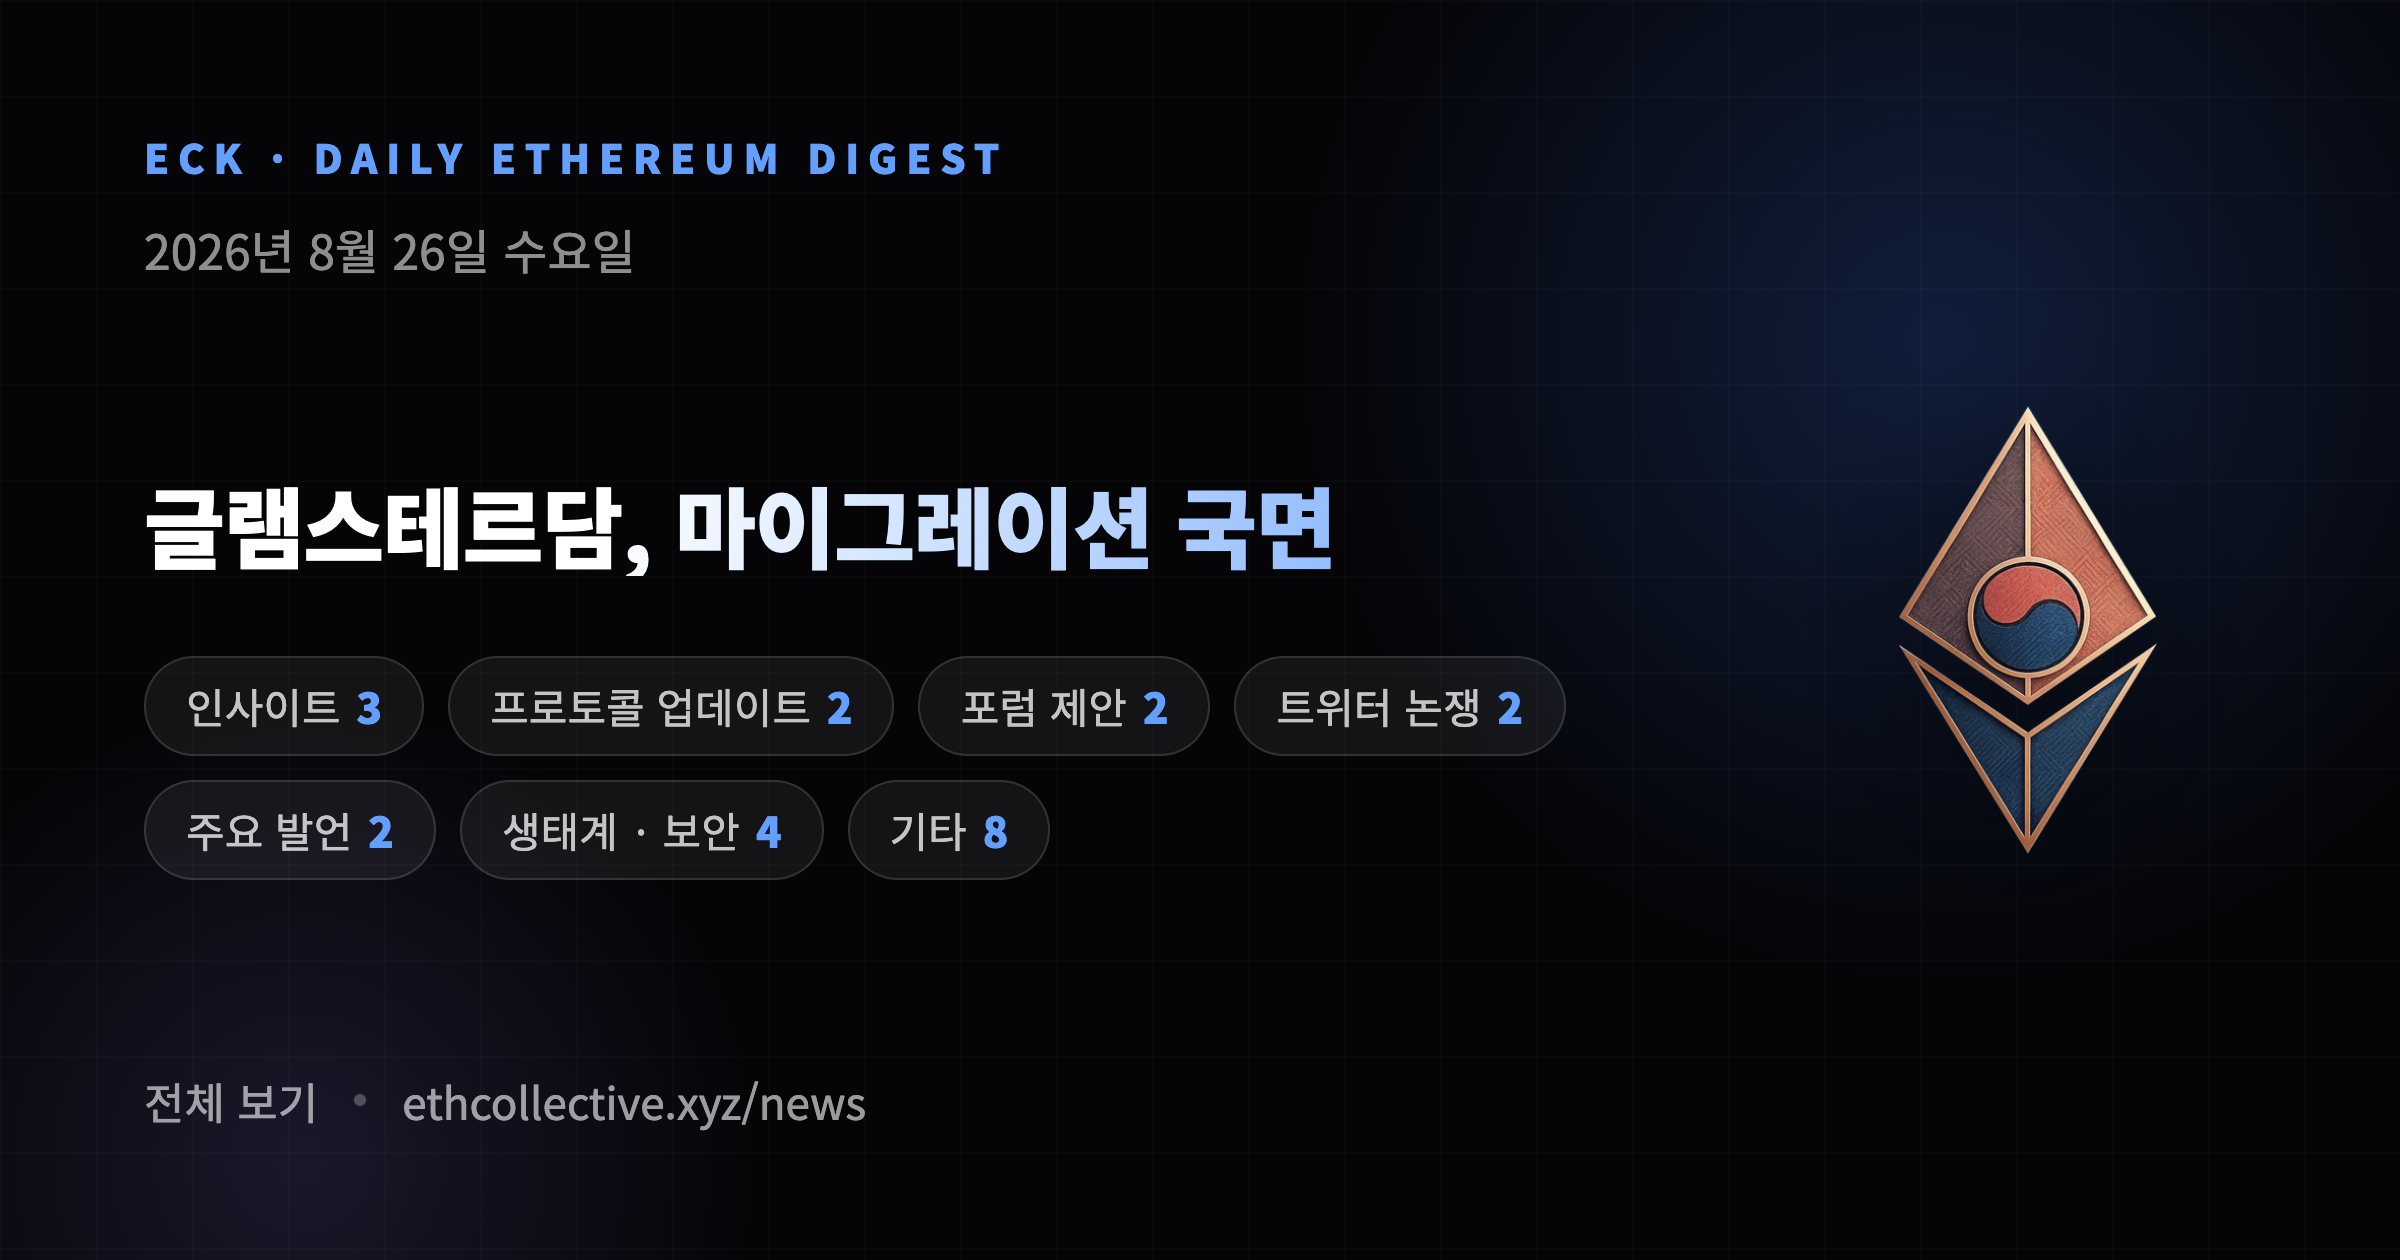
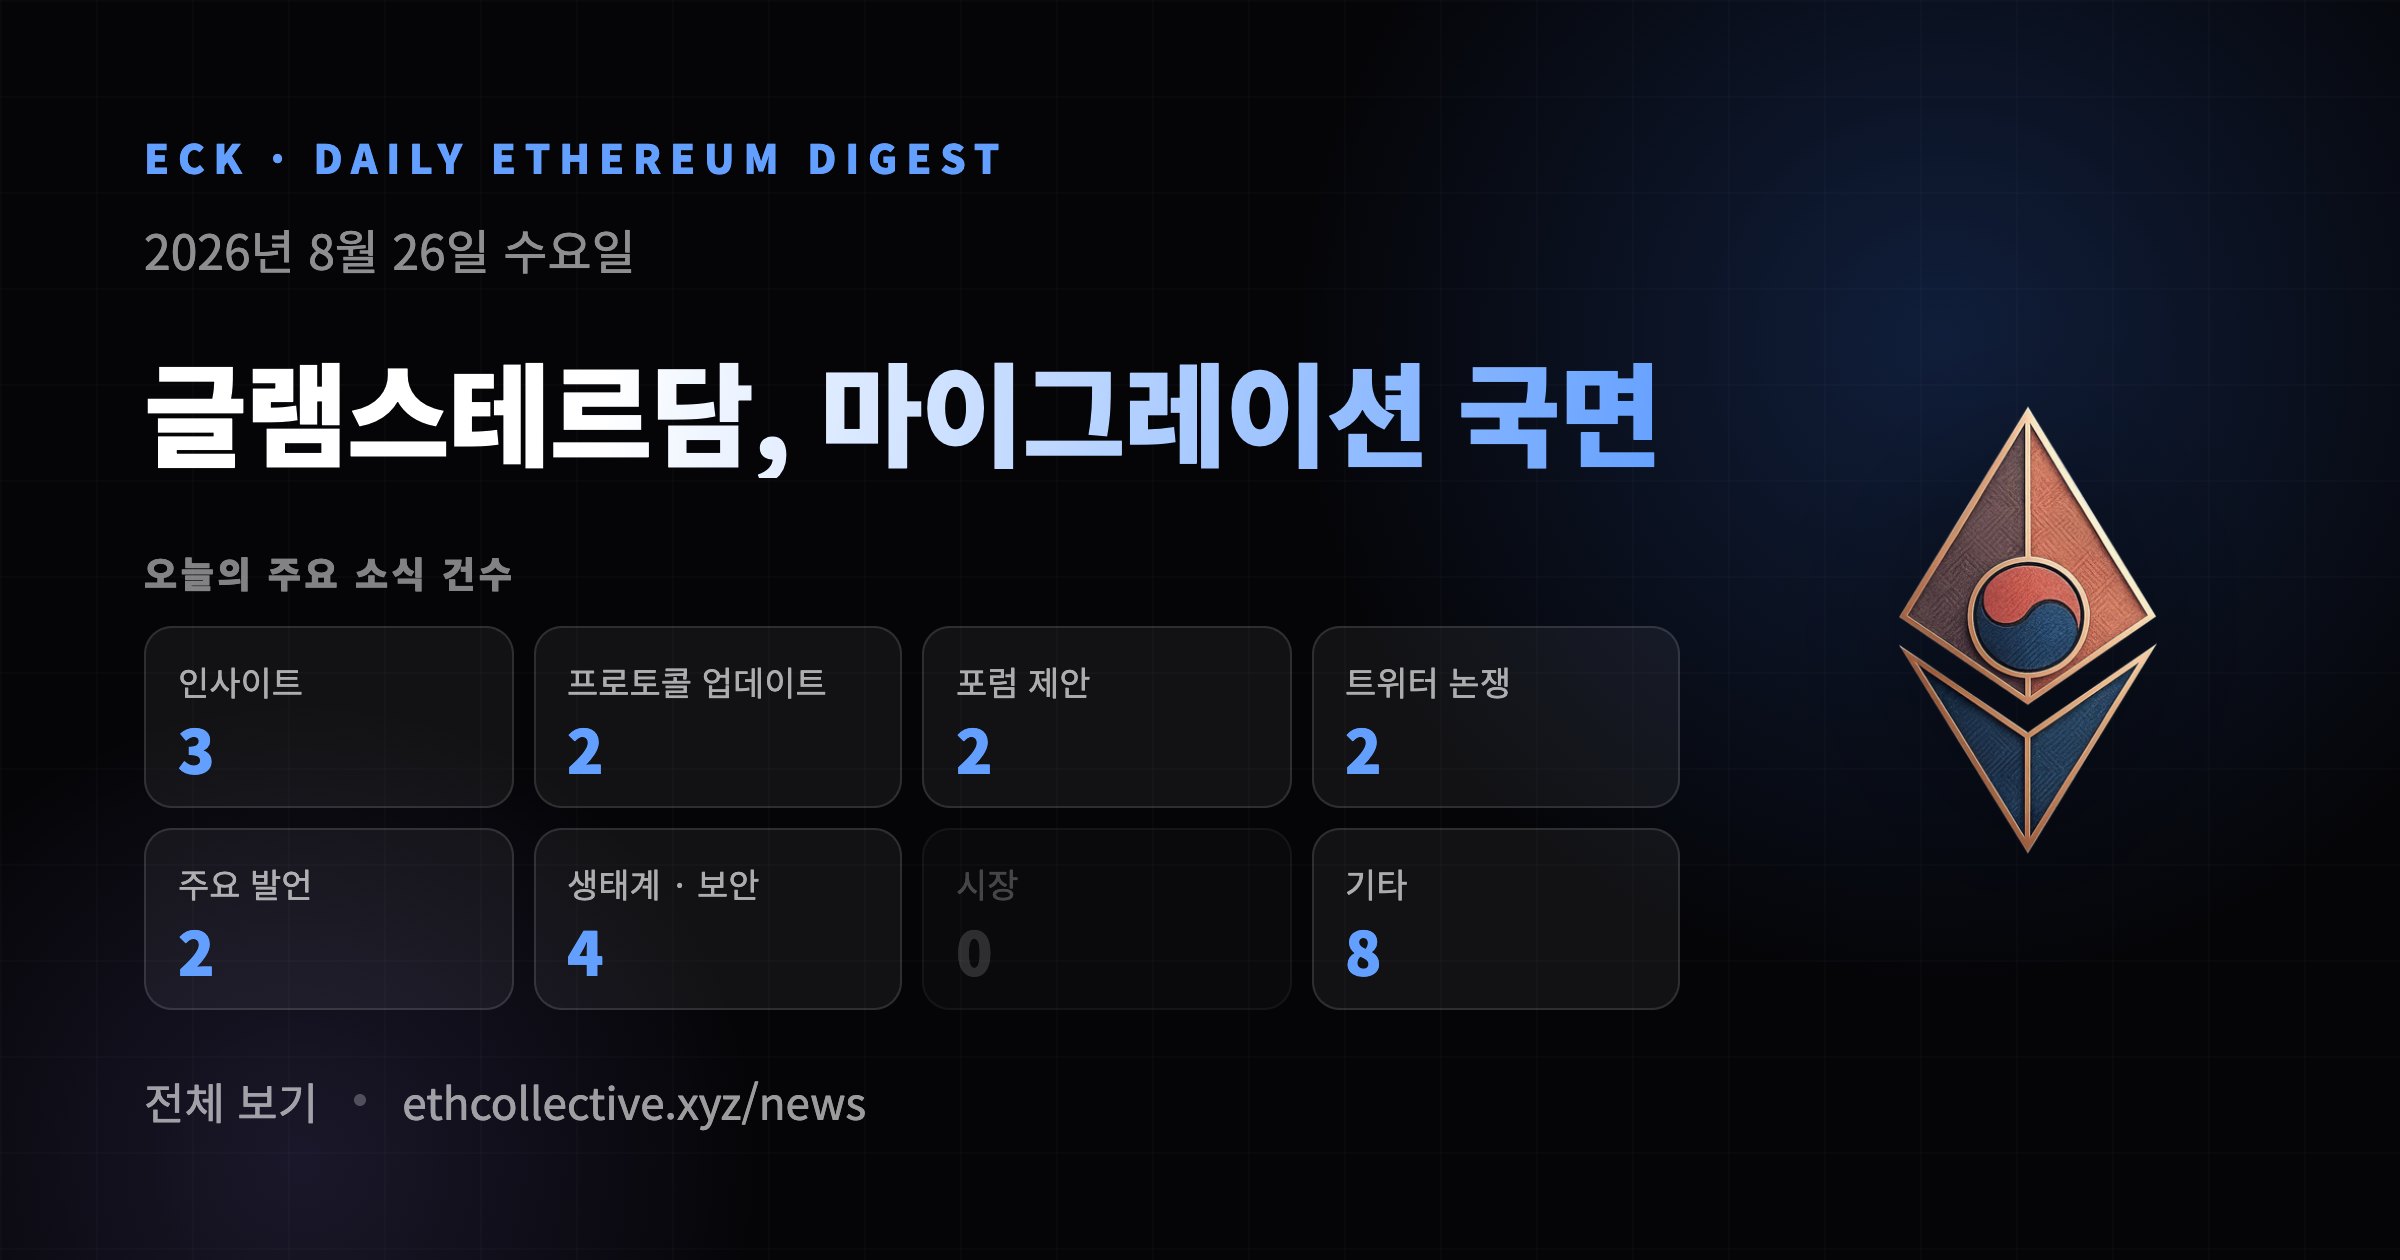
feat: 커버 8칸 소식 건수 그리드 + 타이틀 실측 최대화, 캡션 예산 보정
- '오늘의 주요 소식 건수' 소제목 + 고정 8칸 그리드 (없는 분류는 0으로 유지 표시)
- 타이틀 폰트를 렌더 시 실측으로 텍스트 존 최대 크기까지 확대 (로고 침범 없음)
- 캡션 1024자 예산을 '보이는 텍스트' 기준으로 보정 — 논쟁·발언 구분이 잘리던 문제 해결

diff --git a/scripts/render-digest-cover.ts b/scripts/render-digest-cover.ts
@@ -48,22 +48,24 @@ function esc(s: string): string {
   return s.replace(/&/g, '&amp;').replace(/</g, '&lt;').replace(/>/g, '&gt;');
 }
 
-/** 커버 칩 라벨 — 섹션 이름 압축 */
-function chipLabel(heading: string): string {
-  return heading
-    .replace(/^오늘의 /, '')
-    .replace(/ · 담론$/, '')
-    .replace(/ 브리핑$/, '')
-    .replace(/^그 밖의 소식$/, '기타');
-}
+/** 커버 8칸 그리드 — 분류 체계 전체를 고정 슬롯으로 (없는 날은 0으로 표시) */
+const CATEGORY_SLOTS: Array<{ label: string; match: string }> = [
+  { label: '인사이트', match: '인사이트' },
+  { label: '프로토콜 업데이트', match: '프로토콜' },
+  { label: '포럼 제안', match: '포럼' },
+  { label: '트위터 논쟁', match: '논쟁' },
+  { label: '주요 발언', match: '발언' },
+  { label: '생태계 · 보안', match: '생태계' },
+  { label: '시장', match: '시장' },
+  { label: '기타', match: '그 밖' },
+];
 
 function coverHtml(digest: Digest, logoDataUri: string): string {
   const headline = digest.shortTitle ?? digest.title;
-  // 한 줄 유지: 글자 수에 맞춰 폰트 크기 자동 조정 (텍스트 존 약 720px)
-  const fontSize = Math.max(38, Math.min(64, Math.floor(760 / headline.length)));
-  const chips = digest.sections
-    .map((s) => `<span class="chip">${esc(chipLabel(s.heading))}<b>${s.items.length}</b></span>`)
-    .join('');
+  const cells = CATEGORY_SLOTS.map(({ label, match }) => {
+    const count = digest.sections.find((s) => s.heading.includes(match))?.items.length ?? 0;
+    return `<div class="cell${count === 0 ? ' empty' : ''}"><span class="cat">${esc(label)}</span><span class="num">${count}</span></div>`;
+  }).join('');
   const dateLabel = new Date(`${digest.date}T00:00:00`).toLocaleDateString('ko-KR', {
     year: 'numeric',
     month: 'long',
@@ -92,16 +94,20 @@ function coverHtml(digest: Digest, logoDataUri: string): string {
     .wrap { position: relative; height: 100%; padding: 64px 360px 64px 72px; display: flex; flex-direction: column; }
     .eyebrow { font-size: 20px; font-weight: 700; letter-spacing: .22em; color: #629FFF; }
     .date { margin-top: 14px; font-size: 24px; color: rgba(255,255,255,.55); font-weight: 400; }
-    .mid { margin-top: auto; margin-bottom: auto; display: flex; flex-direction: column; gap: 40px; }
-    .title { white-space: nowrap;
-      font-size: ${fontSize}px; font-weight: 800; line-height: 1.2; letter-spacing: -.015em;
+    .mid { margin-top: auto; margin-bottom: auto; display: flex; flex-direction: column; gap: 34px; }
+    /* 폰트 크기는 렌더 시 실측으로 텍스트 존에 맞춰 최대화 (로고 존 침범 없음) */
+    .title { white-space: nowrap; font-size: 78px;
+      font-weight: 800; line-height: 1.2; letter-spacing: -.015em;
       background: linear-gradient(100deg, #fff 30%, #629FFF 100%);
       -webkit-background-clip: text; -webkit-text-fill-color: transparent; }
-    .chips { display: flex; flex-wrap: wrap; gap: 12px; }
-    .chip { font-size: 21px; padding: 9px 20px; border-radius: 999px;
-      background: rgba(255,255,255,.06); border: 1px solid rgba(255,255,255,.13);
-      color: rgba(255,255,255,.75); }
-    .chip b { color: #629FFF; margin-left: 8px; font-weight: 700; }
+    .panel-label { font-size: 18px; font-weight: 700; letter-spacing: .1em; color: rgba(255,255,255,.5); }
+    .cells { margin-top: 14px; display: grid; grid-template-columns: repeat(4, 1fr); gap: 10px; }
+    .cell { display: flex; flex-direction: column; gap: 6px; padding: 14px 16px; border-radius: 14px;
+      background: rgba(255,255,255,.05); border: 1px solid rgba(255,255,255,.12); }
+    .cell .cat { font-size: 17px; color: rgba(255,255,255,.65); white-space: nowrap; }
+    .cell .num { font-size: 30px; font-weight: 800; color: #629FFF; line-height: 1; }
+    .cell.empty { opacity: .38; }
+    .cell.empty .num { color: rgba(255,255,255,.4); }
     .foot { display: flex; align-items: center; gap: 18px; font-size: 22px; color: rgba(255,255,255,.6); }
     .foot b { color: #A086FC; font-weight: 700; }
     .dot { width: 6px; height: 6px; border-radius: 50%; background: rgba(255,255,255,.25); }
@@ -117,7 +123,10 @@ function coverHtml(digest: Digest, logoDataUri: string): string {
       </div>
       <div class="mid">
         <div class="title">${esc(headline)}</div>
-        <div class="chips">${chips}</div>
+        <div>
+          <div class="panel-label">오늘의 주요 소식 건수</div>
+          <div class="cells">${cells}</div>
+        </div>
       </div>
       <div class="foot">
         <span>전체 보기</span><span class="dot"></span>
@@ -158,6 +167,16 @@ async function main() {
   try {
     const page = await browser.newPage({ viewport: { width: 1200, height: 630 }, deviceScaleFactor: 2 });
     await page.setContent(coverHtml(digest, logoDataUri), { waitUntil: 'networkidle' });
+    // 타이틀을 텍스트 존 폭에 맞춰 실측으로 최대 크기 조정 (한 줄 보장)
+    await page.evaluate(() => {
+      const el = document.querySelector('.title') as HTMLElement;
+      let size = 78;
+      el.style.fontSize = `${size}px`;
+      while (size > 40 && el.scrollWidth > el.clientWidth) {
+        size -= 2;
+        el.style.fontSize = `${size}px`;
+      }
+    });
     await page.screenshot({ path: outFile, type: 'png' });
   } finally {
     await browser.close();

diff --git a/scripts/post-digest-telegram.ts b/scripts/post-digest-telegram.ts
@@ -48,20 +48,25 @@ function formatCaption(digest: Digest): string {
   const tail = `\n\n전체 요약 보기 → ${SITE_NEWS_URL}`;
   const budget = 1024 - tail.length;
 
+  // 텔레그램 1024자 제한은 '보이는 텍스트' 기준 — HTML 태그는 별도로 계산한다
   let caption = `<b>${esc(digest.title)}</b>\n${digest.date} · ECK 데일리 이더리움 다이제스트`;
+  let visible = `${digest.title}\n${digest.date} · ECK 데일리 이더리움 다이제스트`.length;
 
   const coreSections = digest.sections.filter((s) =>
     CAPTION_SECTION_KEYWORDS.some((k) => s.heading.includes(k)),
   );
   for (const section of coreSections) {
-    const header = `\n\n<b>${esc(section.heading)}</b>`;
-    const lines = section.items.map((item) => `\n· <a href="${item.url}">${esc(item.title)}</a>`);
+    const headerVisible = `\n\n${section.heading}`.length;
+    const firstVisible = `\n· ${section.items[0].title}`.length;
     // 소제목 + 첫 항목이 들어갈 자리가 없으면 그 구분부터 생략
-    if (caption.length + header.length + lines[0].length > budget) break;
-    caption += header;
-    for (const line of lines) {
-      if (caption.length + line.length > budget) break;
-      caption += line;
+    if (visible + headerVisible + firstVisible > budget) break;
+    caption += `\n\n<b>${esc(section.heading)}</b>`;
+    visible += headerVisible;
+    for (const item of section.items) {
+      const lineVisible = `\n· ${item.title}`.length;
+      if (visible + lineVisible > budget) break;
+      caption += `\n· <a href="${item.url}">${esc(item.title)}</a>`;
+      visible += lineVisible;
     }
   }
   return caption + tail;
